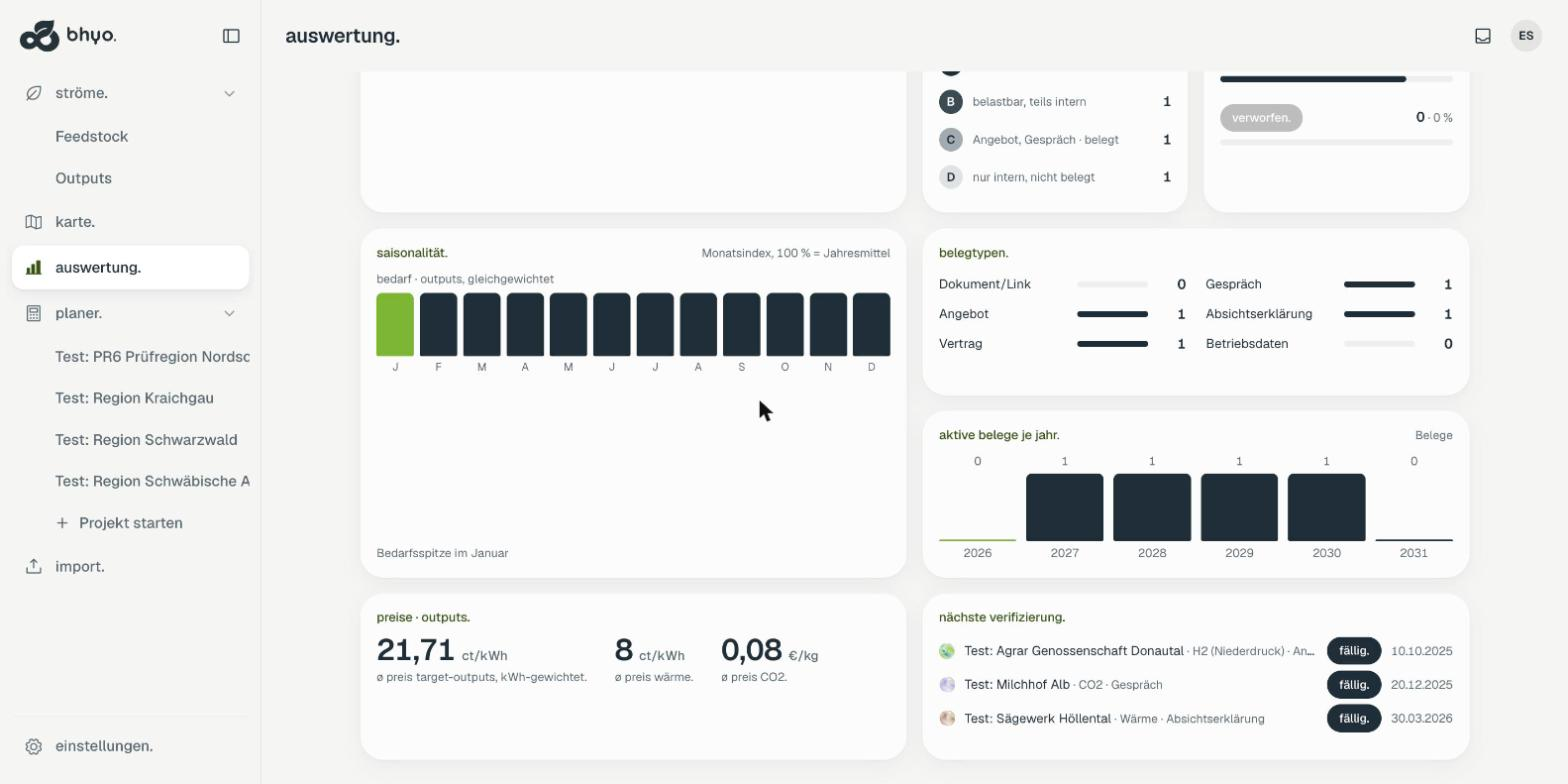
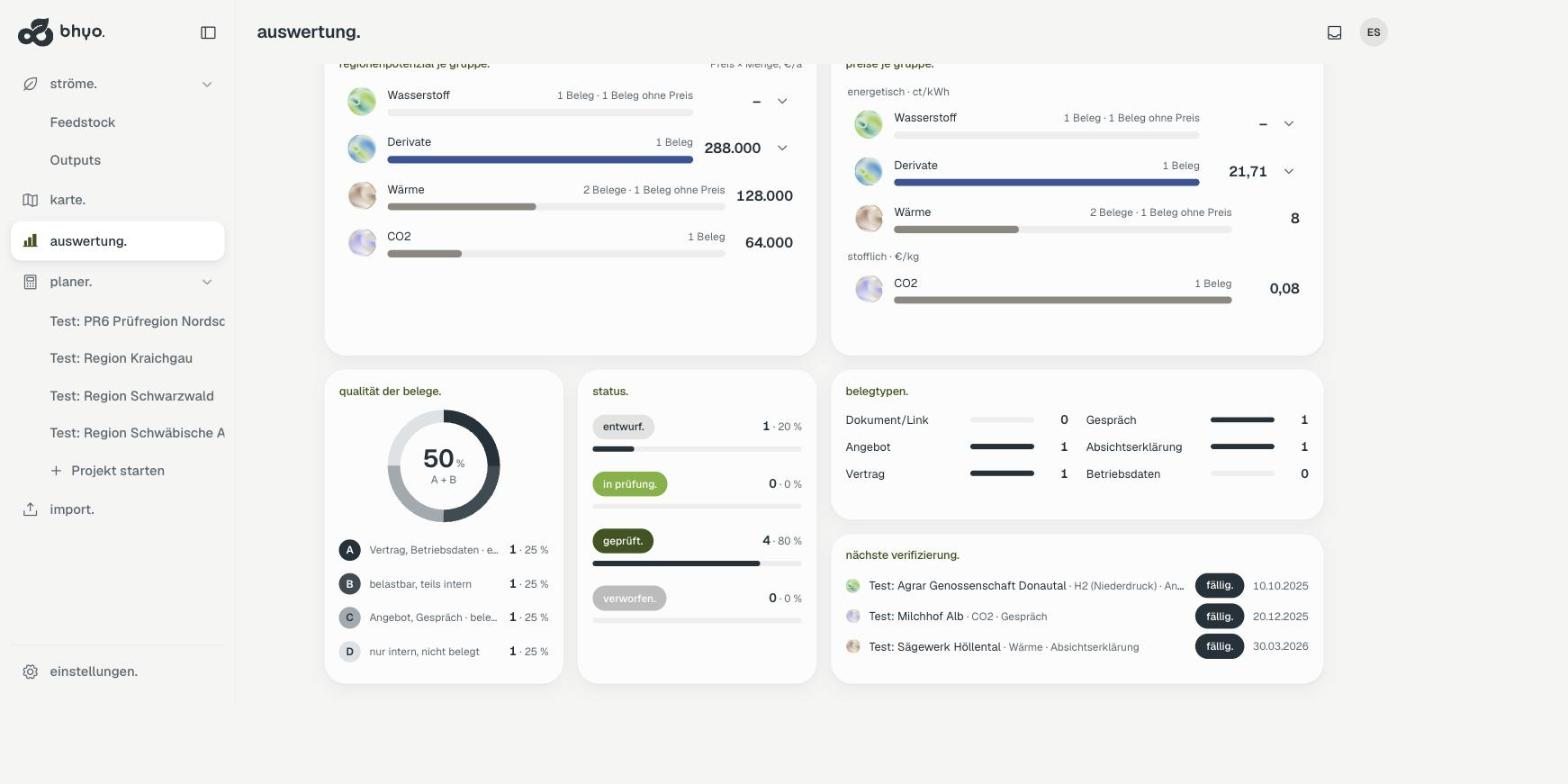
AP1i PR7: Outputs-Screenshots erneuert + Caret-Label je Modultyp (Produkte/Materialarten)
Claude-Session: https://claude.ai/code/session_014EPgAuF1dPbT7HJ7pGLrEW

diff --git a/apps/web/components/auswertung/AuswertungAnsicht.tsx b/apps/web/components/auswertung/AuswertungAnsicht.tsx
@@ -136,12 +136,12 @@ export function AuswertungAnsicht({
   });
 
   /** Aufklapp-Pfeil des Akkordeons (eigener Knopf neben der Filter-Zeile). */
-  const caretKnopf = (k: string, auf: boolean) => (
+  const caretKnopf = (k: string, auf: boolean, begriff = "Materialarten") => (
     <button
       type="button"
       className="aw-akk-caret"
       aria-expanded={auf}
-      aria-label={auf ? "Materialarten verbergen" : "Materialarten anzeigen"}
+      aria-label={auf ? `${begriff} verbergen` : `${begriff} anzeigen`}
       onClick={() => flip(k)}
     >
       <i className={`ph-bold ph-caret-${auf ? "up" : "down"}`} aria-hidden />
@@ -217,7 +217,7 @@ export function AuswertungAnsicht({
               </span>
               <span className="aw-zeilenwert">{z.wertText}</span>
             </button>
-            {z.unter.length > 0 && caretKnopf(`${modulKey}:${z.key}`, auf)}
+            {z.unter.length > 0 && caretKnopf(`${modulKey}:${z.key}`, auf, "Produkte")}
           </div>
           {auf &&
             z.unter.map((u) => (
